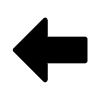
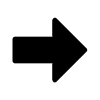
Fixed portal orientation, I think...

Changed region(s): [[0.51, 0.15, 0.9, 0.84], [0.12, 0.15, 0.48, 0.84]]

diff --git a/Web/index.js b/Web/index.js
@@ -60,7 +60,7 @@ function parseJson(jsonData)
 }
 
 // Parsing JSON. TODO: Uncomment this when done.
-e = new EventSource('/events/game');
+e = new EventSource('http://192.168.1.171:8080/events/game');
 e.onmessage = function(event) {
     console.log(event.data);
     console.log("PRICK")  // TODO: Remove this when done.
@@ -70,7 +70,7 @@ e.onmessage = function(event) {
 
 // // TODO: Remove below when done.
 // parseJson({"Maps":[[[false,false,false,false,true,false,true,false,true,false,true,false,true],[true,false,true,false,true,false,true,false,true,false,true,false,true],[true,false,true,false,true,false,true,true,false,true,false,true,false],[true,false,true,false,true,false,true,false,false,true,false,true,false]],[[true,false,true,false,true,false,true,false,true,false,true,false,true],[true,false,true,false,true,false,true,false,true,false,true,false,true],[true,false,true,false,true,false,true,true,false,true,false,true,false],[true,false,true,false,true,false,true,false,false,true,false,true,false]],[[true,false,true,false,true,false,true,false,true,false,true,false,true],[true,false,true,false,true,false,true,false,true,false,true,false,true],[true,false,true,false,true,false,true,true,false,true,false,true,false],[true,false,true,false,true,false,true,false,false,true,false,true,false]]],
-//     "Portals":[{"In":{"World":1,"X":0,"Y":1,"Rotation":1},"Out":{"World":1,"X":0,"Y":4,"Rotation":0}},{"In":{"World":5,"X":6,"Y":7,"Rotation":1},"Out":{"World":4,"X":5,"Y":6,"Rotation":7}}]})
+//     "Portals":[{"In":{"World":1,"X":2,"Y":2,"Rotation":3},"Out":{"World":1,"X":5,"Y":2,"Rotation":2}},{"In":{"World":5,"X":6,"Y":7,"Rotation":1},"Out":{"World":4,"X":5,"Y":6,"Rotation":7}}]})
 
 // This variable contains a list of where all of the empty spaces should be
 // ie, the places that the player should be able to walk through.
@@ -123,7 +123,7 @@ function draw() {
 
             case 0:
                 portal = in_pic_0;
-                y_coord++
+                y_coord--
                 break;
 
             case 1:
@@ -133,7 +133,7 @@ function draw() {
 
             case 2:
                 portal = in_pic_2;
-                y_coord--
+                y_coord++
                 break;
 
             case 3:
@@ -164,12 +164,12 @@ function draw() {
 
             case 2:
                 portal = out_pic_2;
-                y_coord--
+                y_coord++
                 break;
 
             case 3:
                 portal = out_pic_3;
-                x_coord++
+                x_coord--
                 break;
         }
 
